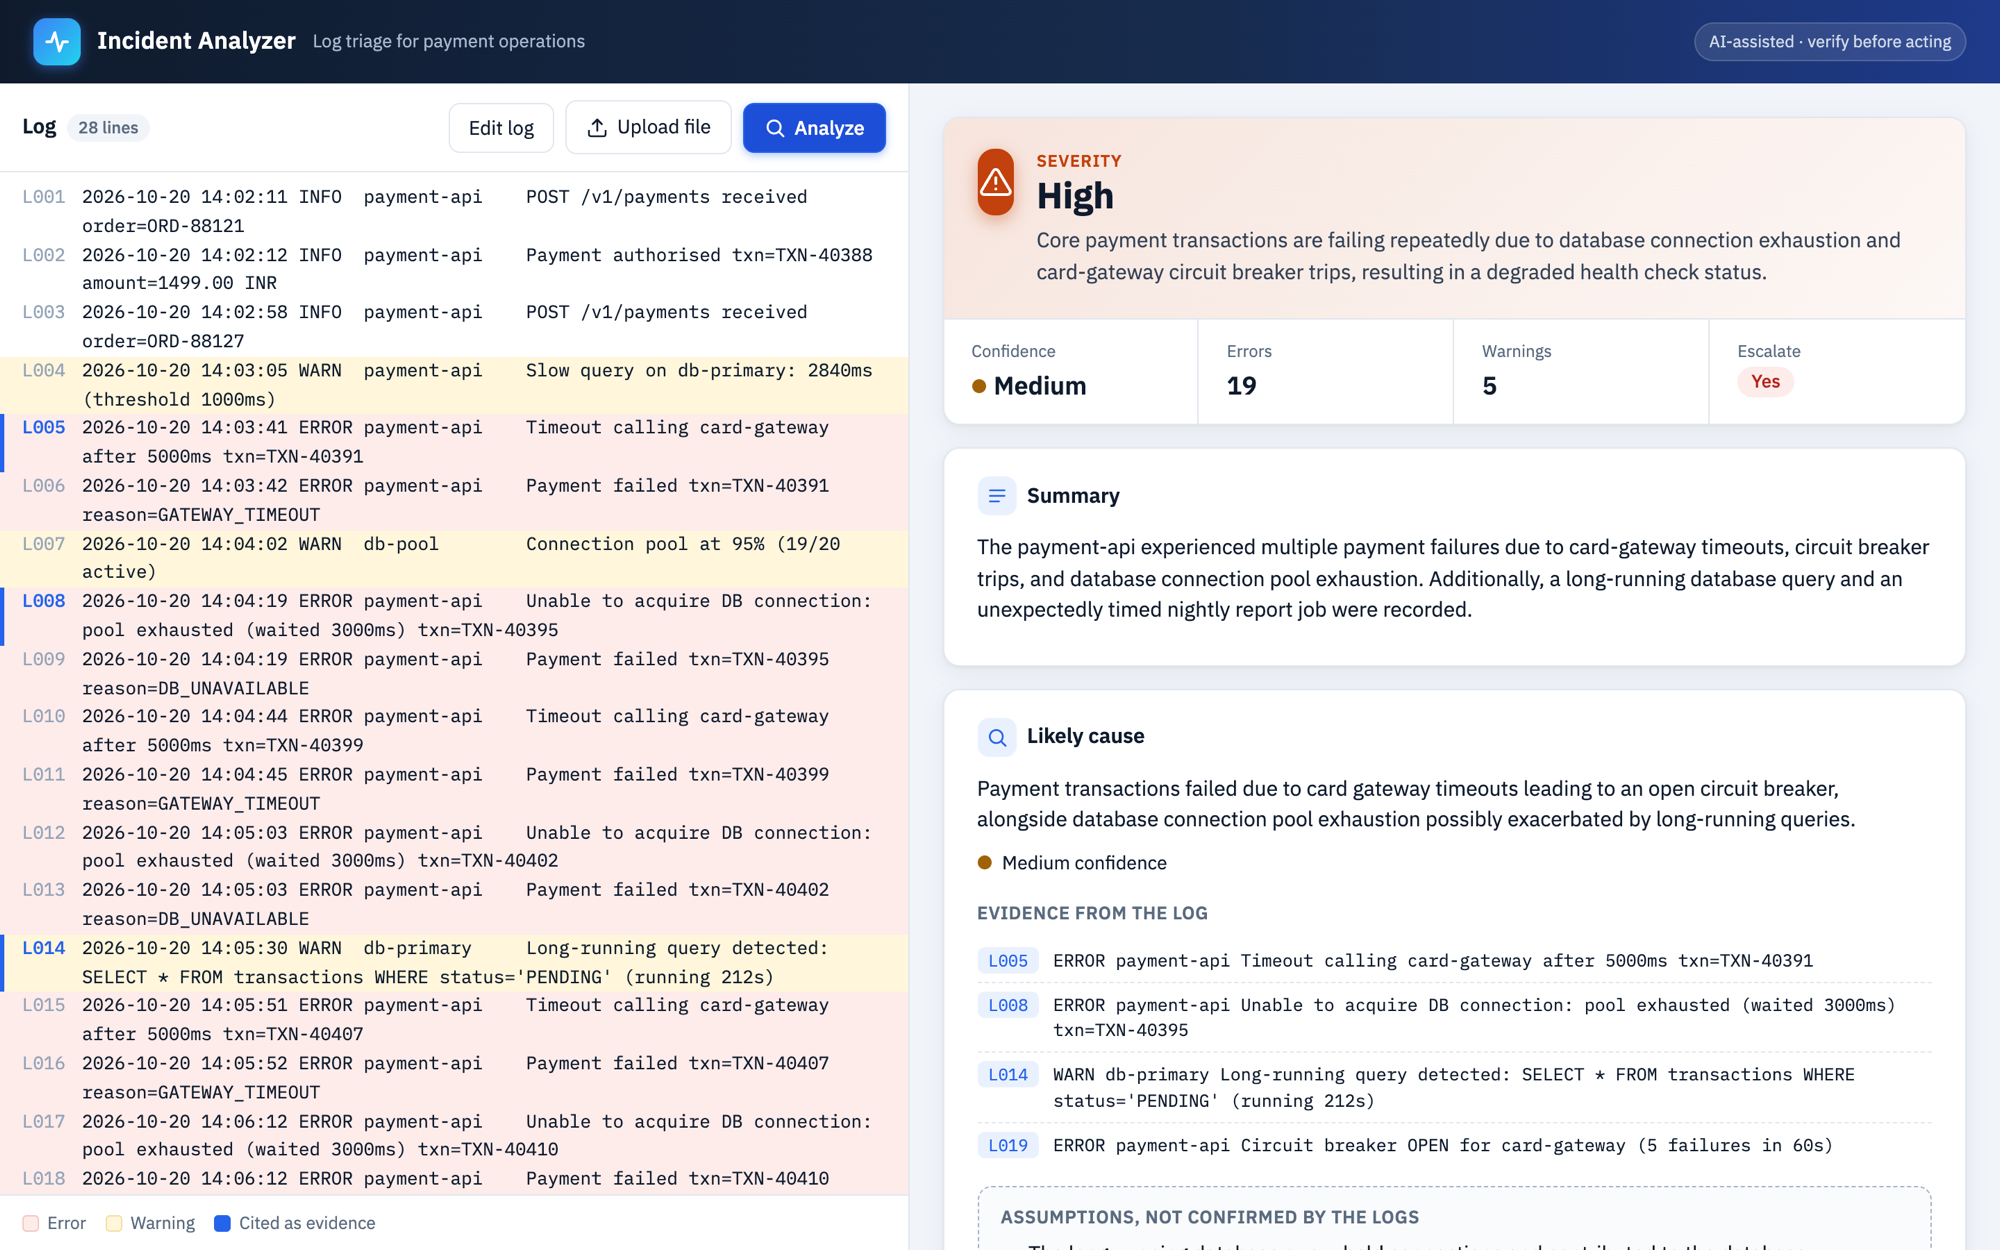
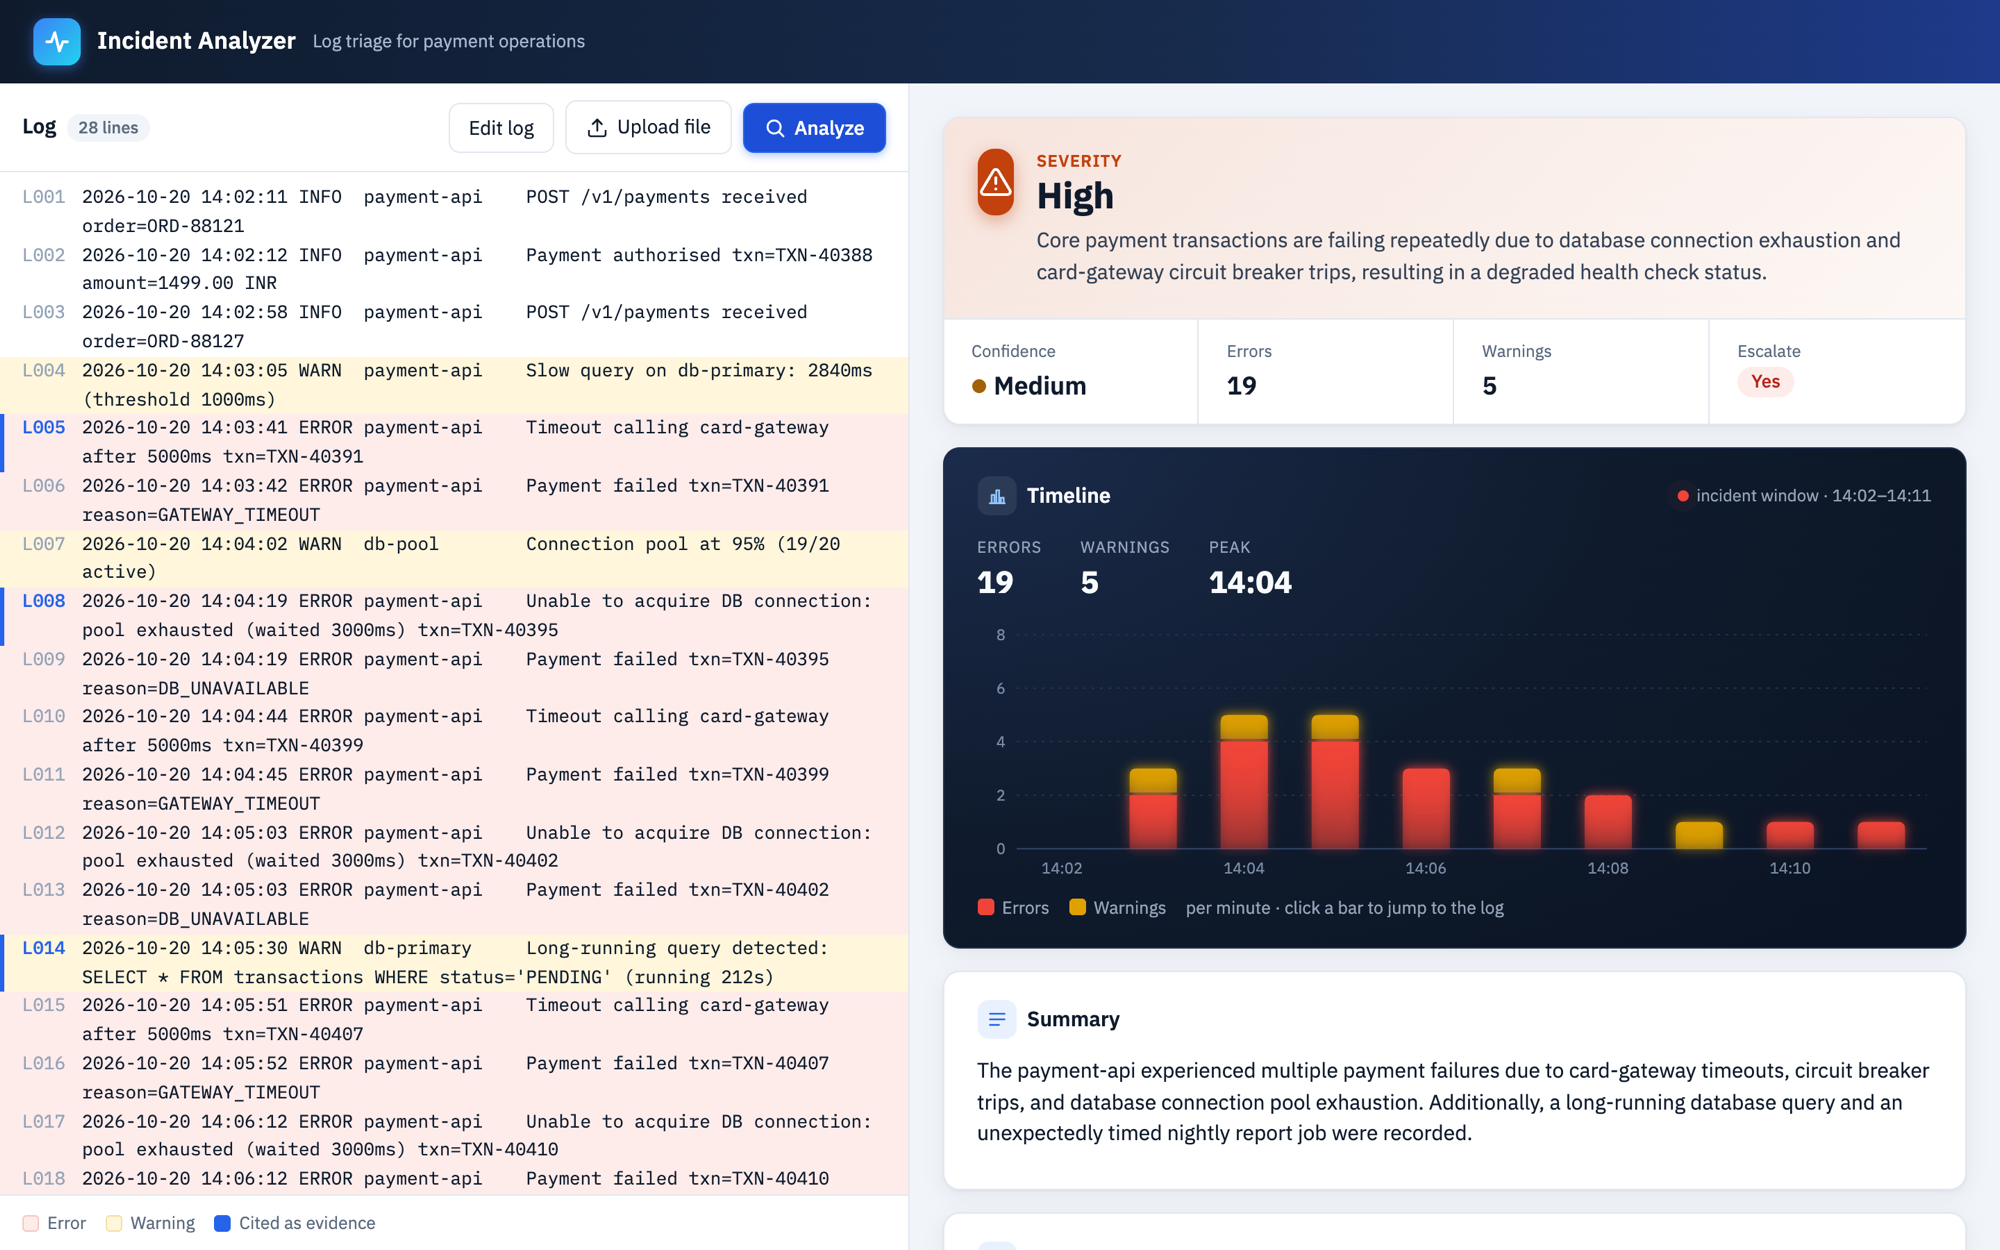
Update README screenshots for the timeline chart and current UI

diff --git a/README.md b/README.md
@@ -57,9 +57,9 @@ sequenceDiagram
     B->>B: Render report, colour and mark cited log lines
 ```
 
-The log is shown with line numbers. Red lines are errors, amber lines are warnings, and a blue edge marks the lines the report uses as evidence:
+The log is shown with line numbers. Red lines are errors, amber lines are warnings, and a blue edge marks the lines the report uses as evidence. The report opens with the severity and a timeline of errors and warnings per minute (click a bar to jump to that part of the log):
 
-![Report with severity, summary and likely cause](project_screenshots/02_report.png)
+![Report with severity and timeline chart](project_screenshots/02_report.png)
 
 **Errors and warnings table:** counted by code, not by the AI:
 
